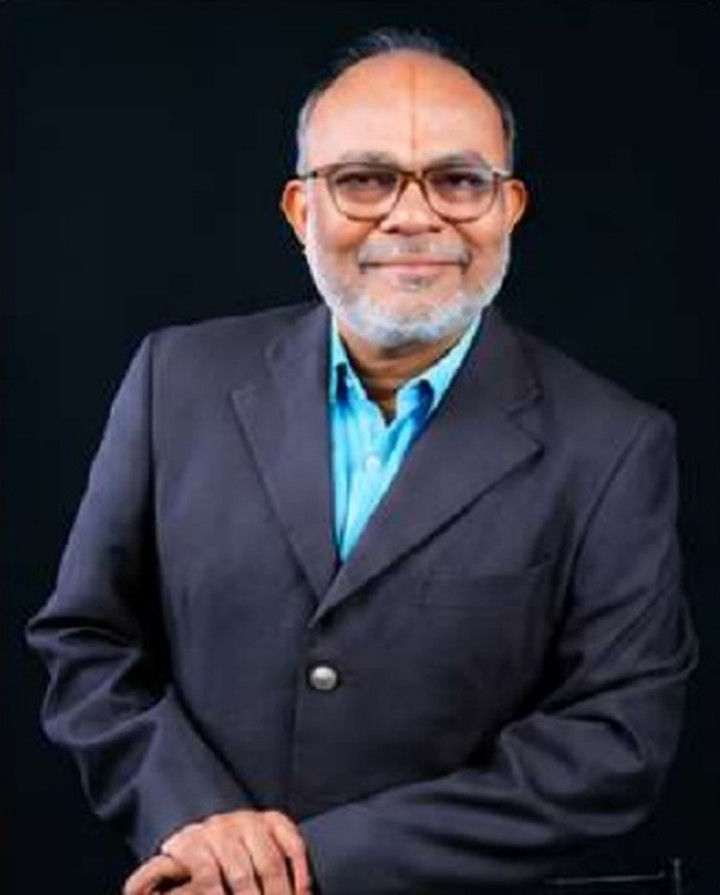
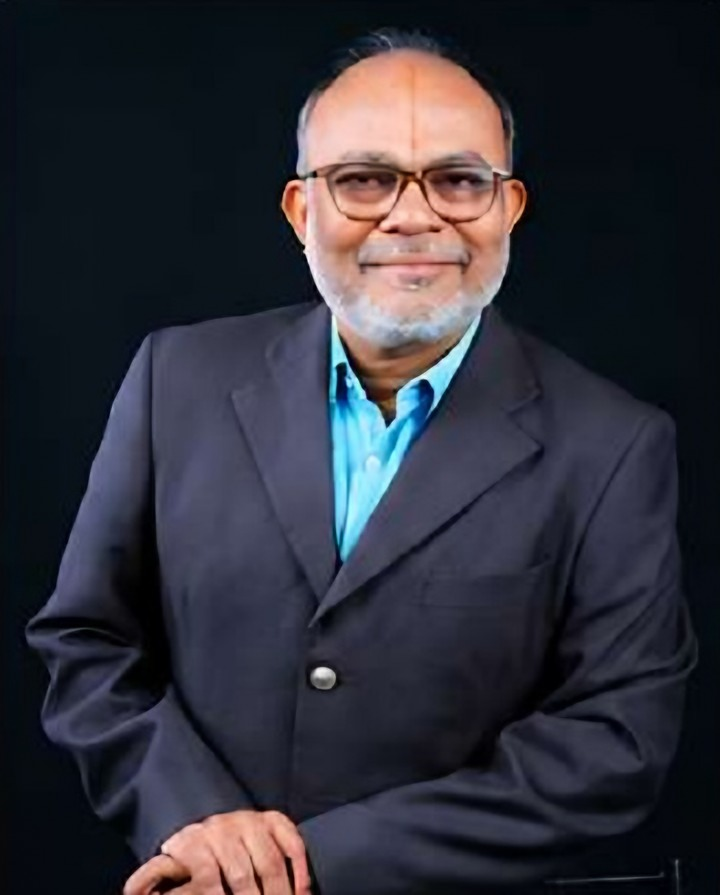
v18: Read More on Ramesh's bio, British spellings, sharper photo
Claude-Session: https://claude.ai/code/session_01HfktdyTsCtv33f2493ZQ9Y

diff --git a/site/about.html b/site/about.html
@@ -75,14 +75,17 @@
         <div><span class="eyebrow">Team</span><h2>Leadership</h2></div>
       </div>
       <div class="people-grid">
-        <div class="person reveal">
+        <div class="person has-more reveal">
           <div class="person-photo"><img src="assets/ramesh.jpg" alt="Ramesh Alwan" width="720" height="895" loading="lazy"></div>
           <div>
             <h3>Ramesh Alwan</h3>
             <span class="role">Founder &amp; Managing Director</span>
-            <p>A seasoned technology and business transformation leader with extensive experience in enterprise technology, digital transformation, AI-driven innovation, and operational excellence. Ramesh brings a unique blend of strategic vision, techno-functional expertise, and business acumen, with a proven ability to build profitable business units, drive organizational growth, transform service delivery models, and deliver measurable business outcomes through innovative, client-centric solutions.</p>
+            <p>A seasoned technology and business transformation leader with extensive experience in enterprise technology, digital transformation, AI-driven innovation, and operational excellence. Ramesh brings a unique blend of strategic vision, techno-functional expertise, and business acumen, with a proven ability to build profitable business units, drive organisational growth, transform service delivery models, and deliver measurable business outcomes through innovative, client-centric solutions.</p>
+            <div class="bio-more" id="bio-ramesh">
             <p>With deep expertise spanning Artificial Intelligence (AI), Generative AI, Agentic AI, Machine Learning, Cloud Transformation, DevOps, Site Reliability Engineering (SRE), and Intelligent Automation, Ramesh is passionate about helping enterprises harness emerging technologies to solve complex business challenges. His focus extends beyond technology adoption to developing practical, scalable AI-powered solutions that enhance operational intelligence, automate business processes, improve decision-making, and unlock new opportunities for efficiency and growth. He actively champions the integration of AI into enterprise operations, product engineering, and service management, bridging the gap between technological innovation and tangible business value.</p>
-            <p>Throughout his career, Ramesh has demonstrated strong leadership in establishing and scaling business practices, driving strategic initiatives, executing complex transformations, and optimizing enterprise operations. Recognized for his ability to build high-performing teams, nurture talent, and foster a culture of innovation, he combines strategic foresight with hands-on technology leadership. As Founder and Managing Director of Radush Technologies, he is focused on positioning the organization as a trusted partner in AI-led digital transformation, intelligent product engineering, cloud modernization, and enterprise operational excellence, enabling businesses to become more agile, resilient, and future-ready.</p>
+            <p>Throughout his career, Ramesh has demonstrated strong leadership in establishing and scaling business practices, driving strategic initiatives, executing complex transformations, and optimising enterprise operations. Recognised for his ability to build high-performing teams, nurture talent, and foster a culture of innovation, he combines strategic foresight with hands-on technology leadership. As Founder and Managing Director of Radush Technologies, he is focused on positioning the organisation as a trusted partner in AI-led digital transformation, intelligent product engineering, cloud modernisation, and enterprise operational excellence, enabling businesses to become more agile, resilient, and future-ready.</p>
+            </div>
+            <button type="button" class="read-more" aria-expanded="false" aria-controls="bio-ramesh" hidden><span class="read-more-label">Read More</span><svg viewBox="0 0 24 24" aria-hidden="true"><path d="m6 9 6 6 6-6"/></svg></button>
           </div>
         </div>
         <div class="person reveal">

diff --git a/site/css/main.css b/site/css/main.css
@@ -761,3 +761,20 @@ a:focus-visible, button:focus-visible, input:focus-visible, textarea:focus-visib
 .pcard-copy h3{ color: var(--text); }
 .pcard-copy p{ color: var(--text-soft); }
 .pcard-action{ border-top-color: var(--border); color: var(--orange-deep); font-weight: 500; }
+
+/* v18: leadership bio "Read More" (About). Without JS the whole bio shows (.is-collapsible is added by main.js). */
+.person.has-more{ position: relative; }
+.person.has-more.is-collapsible{ padding-bottom: 60px; }
+.person.is-collapsible:not(.is-open) .bio-more{ display: none; }
+.people-grid:has(.person.is-open){ align-items: start; }
+.read-more{
+  position: absolute; right: 26px; bottom: 18px;
+  display: inline-flex; align-items: center; gap: 6px; padding: 6px 0;
+  background: none; border: 0; cursor: pointer;
+  font-family: var(--display); font-size: .88rem; font-weight: 600; color: var(--orange-deep);
+}
+.read-more[hidden]{ display: none; }
+.read-more:hover{ color: var(--orange); }
+.read-more:focus-visible{ outline: 2px solid var(--orange); outline-offset: 3px; border-radius: 4px; }
+.read-more svg{ width: 16px; height: 16px; stroke: currentColor; fill: none; stroke-width: 2; stroke-linecap: round; stroke-linejoin: round; transition: transform .3s ease; }
+.person.is-open .read-more svg{ transform: rotate(180deg); }

diff --git a/site/js/main.js b/site/js/main.js
@@ -27,6 +27,21 @@ document.addEventListener('DOMContentLoaded', function () {
     });
   });
 
+  // Leadership bios (About): first paragraph visible, "Read More" shows the rest
+  document.querySelectorAll('.person.has-more').forEach(function (card) {
+    var btn = card.querySelector('.read-more');
+    if (!btn) return;
+    var label = btn.querySelector('.read-more-label');
+    card.classList.add('is-collapsible');
+    btn.hidden = false;
+    btn.addEventListener('click', function () {
+      var open = card.classList.toggle('is-open');
+      btn.setAttribute('aria-expanded', String(open));
+      if (label) label.textContent = open ? 'Read Less' : 'Read More';
+      if (!open && card.getBoundingClientRect().top < 0) card.scrollIntoView({ behavior: 'smooth', block: 'start' });
+    });
+  });
+
   // Legal page tabs
   var tabButtons = document.querySelectorAll('.legal-tabs button');
   if (tabButtons.length) {
